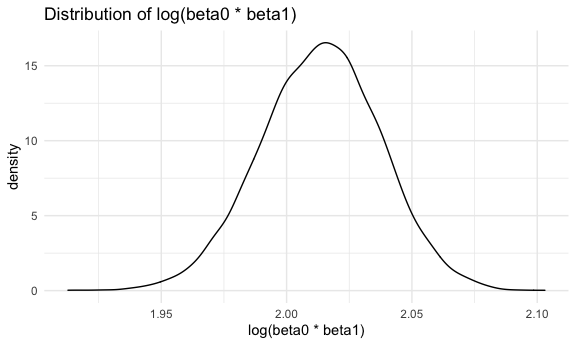
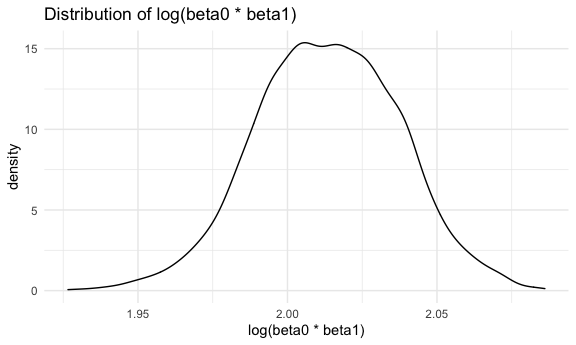
changes to interpretations for residuals plot

diff --git a/p8105_hw6_jz3297.md b/p8105_hw6_jz3297.md
@@ -301,9 +301,8 @@ fit_df %>%
 
 <img src="p8105_hw6_jz3297_files/figure-gfm/unnamed-chunk-8-1.png" width="90%" />
 
-  - From the graph, the dots are scattered around a center which is
-    slightly skewed to the right. There are a few dots far from the
-    scatter but nothing extreme is observed.
+  - From the graph, the dots are scattered around zero. There are a few
+    outliers in the graph but no extreme values are observed.
 
 <!-- end list -->
 
@@ -320,9 +319,9 @@ fit_df %>%
 
 <img src="p8105_hw6_jz3297_files/figure-gfm/unnamed-chunk-9-1.png" width="90%" />
 
-  - The density plot of residuals is relatively symmetric with a slight
-    skewness to the right. In general, residuals seem to be centered
-    around zero.
+  - The density plot of residuals is relatively symmetric without
+    heavily skewed to any direction. In general, residuals seem to be
+    centered around zero.
 
 <br />
 
@@ -472,16 +471,16 @@ boot_results
     ## # A tibble: 10,000 x 4
     ##    strap_number term        estimate r_squared
     ##    <chr>        <chr>          <dbl>     <dbl>
-    ##  1 0001         (Intercept)    7.73      0.902
-    ##  2 0001         tmin           0.996     0.902
-    ##  3 0002         (Intercept)    6.94      0.921
-    ##  4 0002         tmin           1.05      0.921
-    ##  5 0003         (Intercept)    7.22      0.907
-    ##  6 0003         tmin           1.04      0.907
-    ##  7 0004         (Intercept)    7.21      0.910
-    ##  8 0004         tmin           1.04      0.910
-    ##  9 0005         (Intercept)    7.07      0.904
-    ## 10 0005         tmin           1.05      0.904
+    ##  1 0001         (Intercept)     7.44     0.897
+    ##  2 0001         tmin            1.03     0.897
+    ##  3 0002         (Intercept)     7.10     0.899
+    ##  4 0002         tmin            1.04     0.899
+    ##  5 0003         (Intercept)     7.26     0.916
+    ##  6 0003         tmin            1.03     0.916
+    ##  7 0004         (Intercept)     7.59     0.905
+    ##  8 0004         tmin            1.02     0.905
+    ##  9 0005         (Intercept)     7.33     0.917
+    ## 10 0005         tmin            1.05     0.917
     ## # … with 9,990 more rows
 
 <br />
@@ -551,8 +550,8 @@ quantile(boot_results %>% pull(r_squared), probs = c(0.025, 0.975)) %>%
 
 |       |         x |
 | :---- | --------: |
-| 2.5%  | 0.8943591 |
-| 97.5% | 0.9269813 |
+| 2.5%  | 0.8940405 |
+| 97.5% | 0.9273167 |
 
   - The 95% CI for r^2 is between 0.895 and 0.927
 
@@ -565,7 +564,7 @@ quantile(log_df %>% pull(log_beta), probs = c(0.025, 0.975)) %>%
 
 |       |        x |
 | :---- | -------: |
-| 2.5%  | 1.965999 |
-| 97.5% | 2.059236 |
+| 2.5%  | 1.965400 |
+| 97.5% | 2.059904 |
 
   - The 95% CI for log(beta0 \* beta1) is between 1.964 and 2.060
